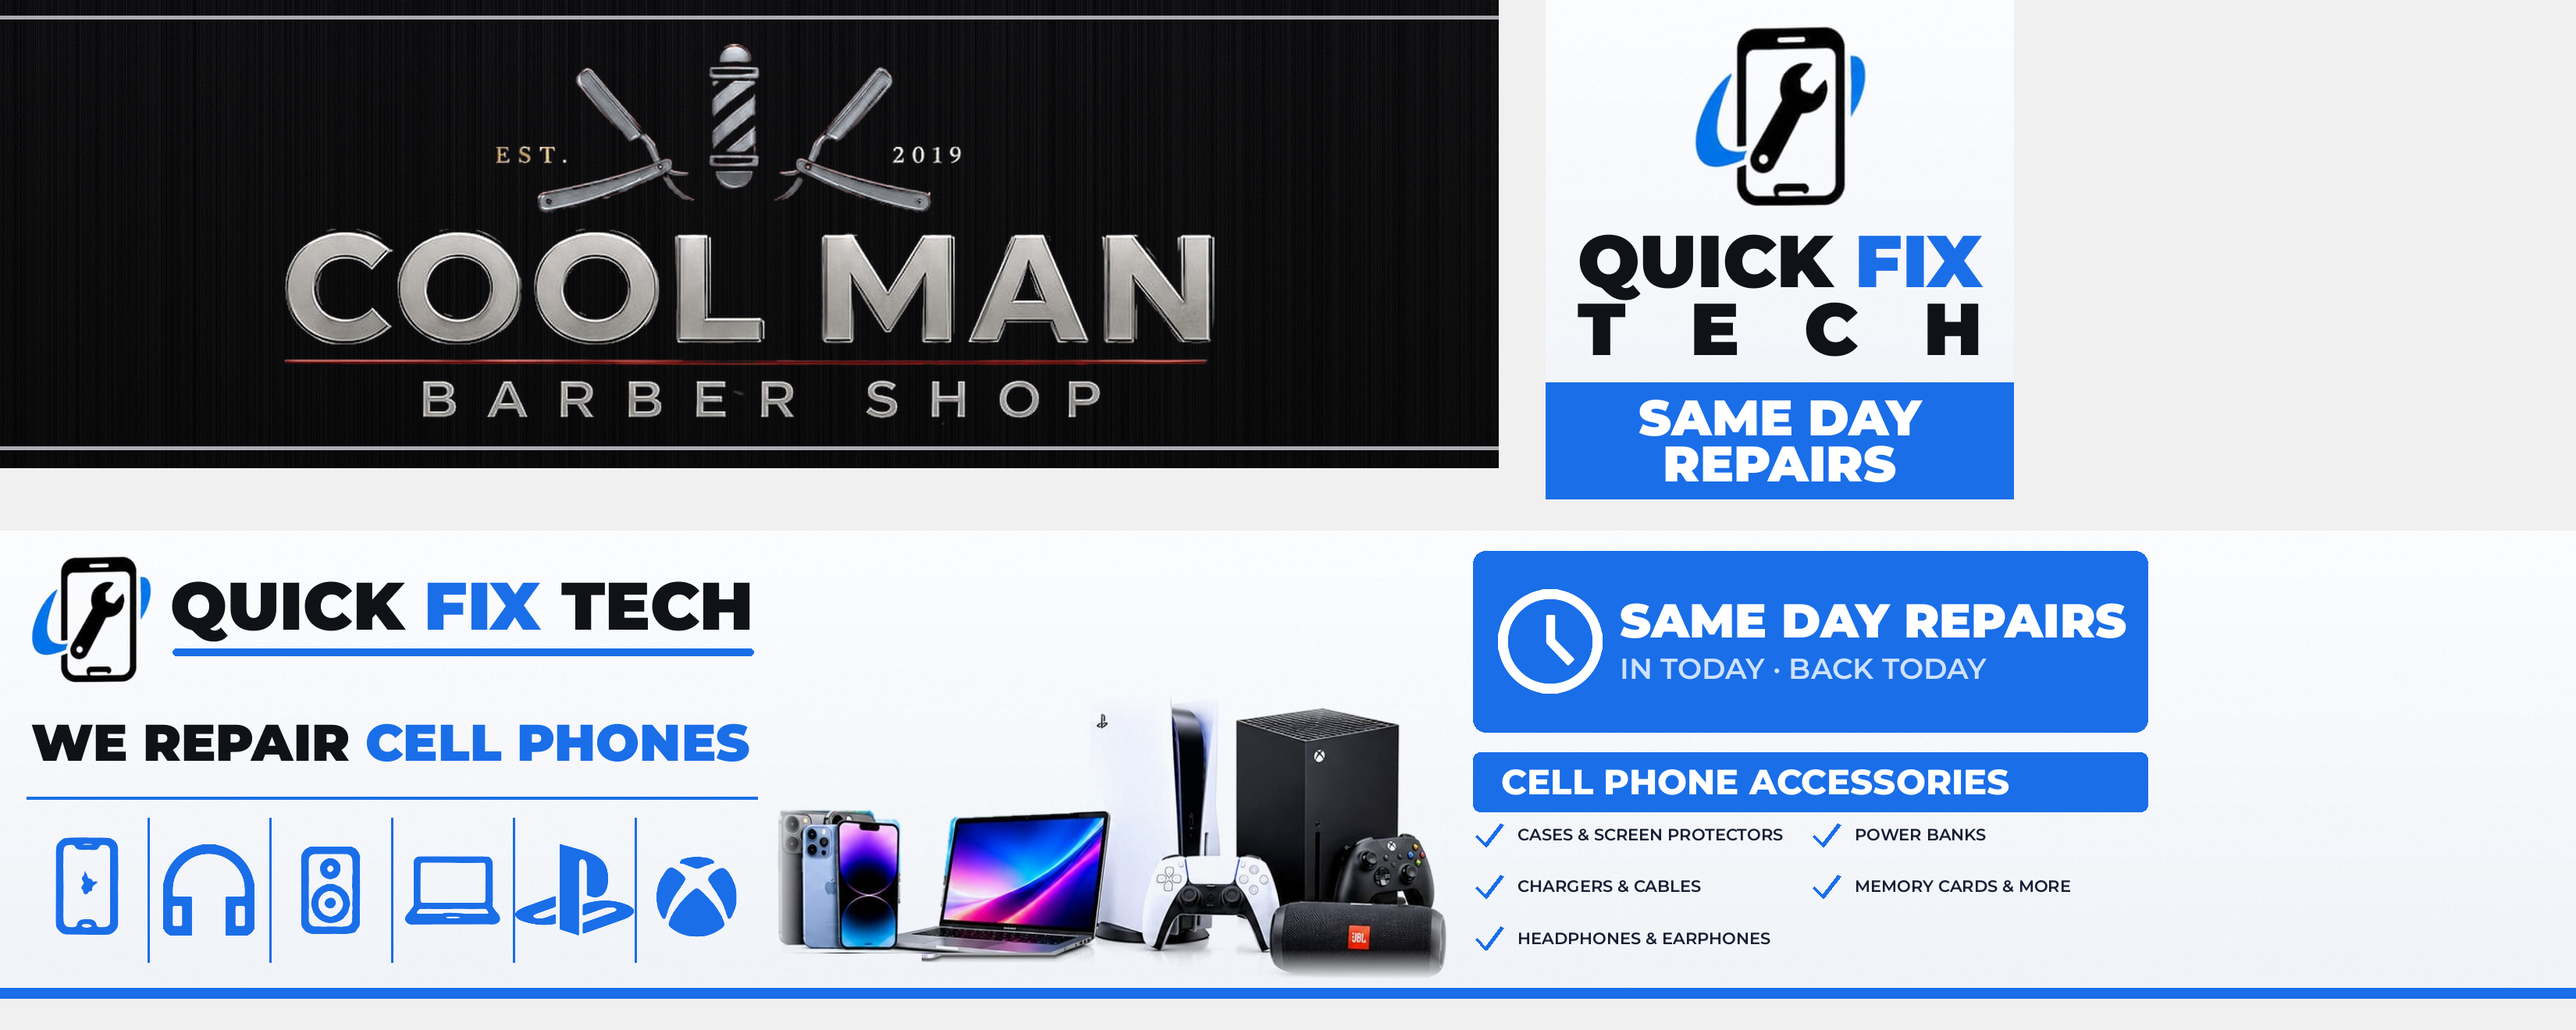
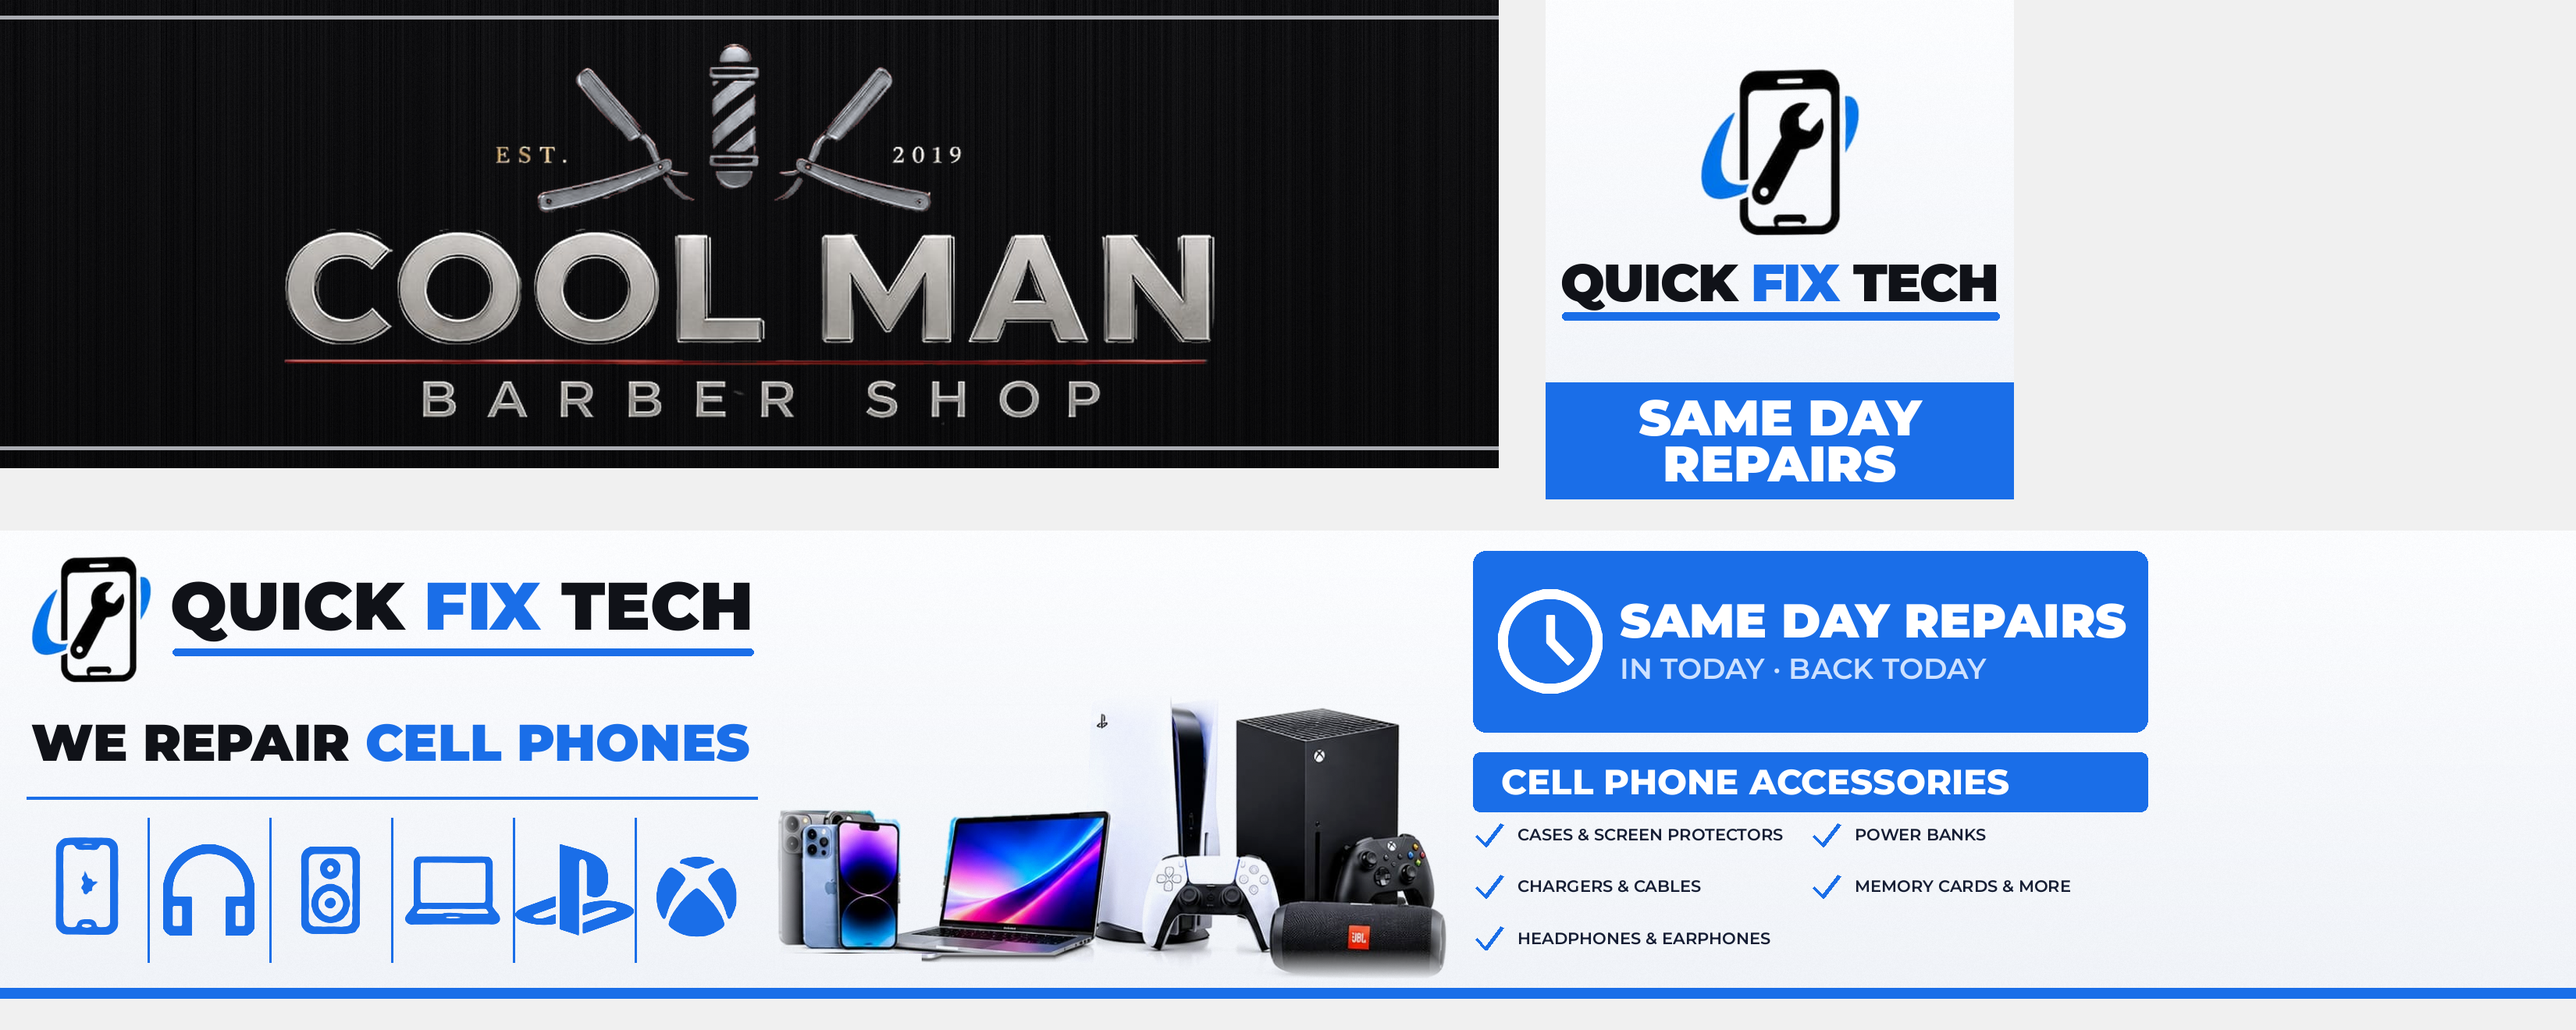
Corner sign: one-line Quick Fix Tech at full width under a smaller mark
Claude-Session: https://claude.ai/code/session_013KRwQLAxoZ4CUmAfzsxCfh

Changed region(s): [[0.593, 0.0, 0.7803, 0.3417]]

diff --git a/signage-concepts/source/signs_fit.py b/signage-concepts/source/signs_fit.py
@@ -54,19 +54,26 @@ def corner():
     """Small corner sign: repair mark, brand name, Same Day band."""
     w, h = BLUE_WH; t = white(w, h); d = ImageDraw.Draw(t)
     band_top = h - 150
-    # stacked lockup: mark, then QUICK FIX / TECH set to the same width
-    f = qp.mont_fit(["QUICK FIX"], w - 76, 96, 900, 0)
-    cap = f.getbbox("H")[3] - f.getbbox("H")[1]
-    wq = d.textlength("QUICK FIX", font=f); x0 = (w - wq)/2
-    gap = cap*0.32; text_h = cap*2 + gap
-    mk_h = int(band_top - 34 - text_h - 30 - 24)
-    mk = qp.scale_fit(P.mark, w*0.6, mk_h); paste_c(t, mk, (w/2, 24 + mk_h/2))
-    y1 = 24 + mk_h + 30 + cap
-    d.text((x0, y1), "QUICK ", font=f, fill=qp.INK, anchor="ls")
-    d.text((x0 + d.textlength("QUICK ", font=f), y1), "FIX", font=f, fill=QBLUE, anchor="ls")
-    nat = sum(d.textlength(ch, font=f) for ch in "TECH"); tr = (wq - nat)/3; x = x0
-    for ch in "TECH":
-        d.text((x, y1 + cap + gap), ch, font=f, fill=qp.INK, anchor="ls"); x += d.textlength(ch, font=f) + tr
+    # one-line lockup: smaller mark, brand name as wide as the panel allows (slightly tightened)
+    track = -0.025
+    def line_w(f): return sum(d.textlength(ch, font=f) for ch in "QUICK FIX TECH") + track*f.size*13
+    lo, hi = 10, 200
+    while lo < hi:
+        m = (lo+hi+1)//2
+        if line_w(qp.mont(m, 900)) <= w - 34: lo = m
+        else: hi = m-1
+    f = qp.mont(lo, 900); cap = f.getbbox("H")[3] - f.getbbox("H")[1]
+    tw = line_w(f); x = (w - tw)/2
+    rule_gap, rule_h = 14, 10
+    mk_h = 230; gap = 30
+    block = mk_h + gap + cap + rule_gap + rule_h
+    top = (band_top - block)/2
+    mk = qp.scale_fit(P.mark, w*0.6, mk_h); paste_c(t, mk, (w/2, top + mk_h/2))
+    base = top + mk_h + gap + cap; x0 = x
+    for word, col in (("QUICK ", qp.INK), ("FIX ", QBLUE), ("TECH", qp.INK)):
+        for ch in word:
+            d.text((x, base), ch, font=f, fill=col, anchor="ls"); x += d.textlength(ch, font=f) + track*f.size
+    d.rounded_rectangle((x0 + 2, base + rule_gap, x0 + tw, base + rule_gap + rule_h), radius=5, fill=QBLUE)
     # same-day band
     d.rectangle((0, band_top, w, h), fill=QBLUE)
     fs = qp.mont_fit(["SAME DAY", "REPAIRS"], w - 90, 104, 900, 0.3)
